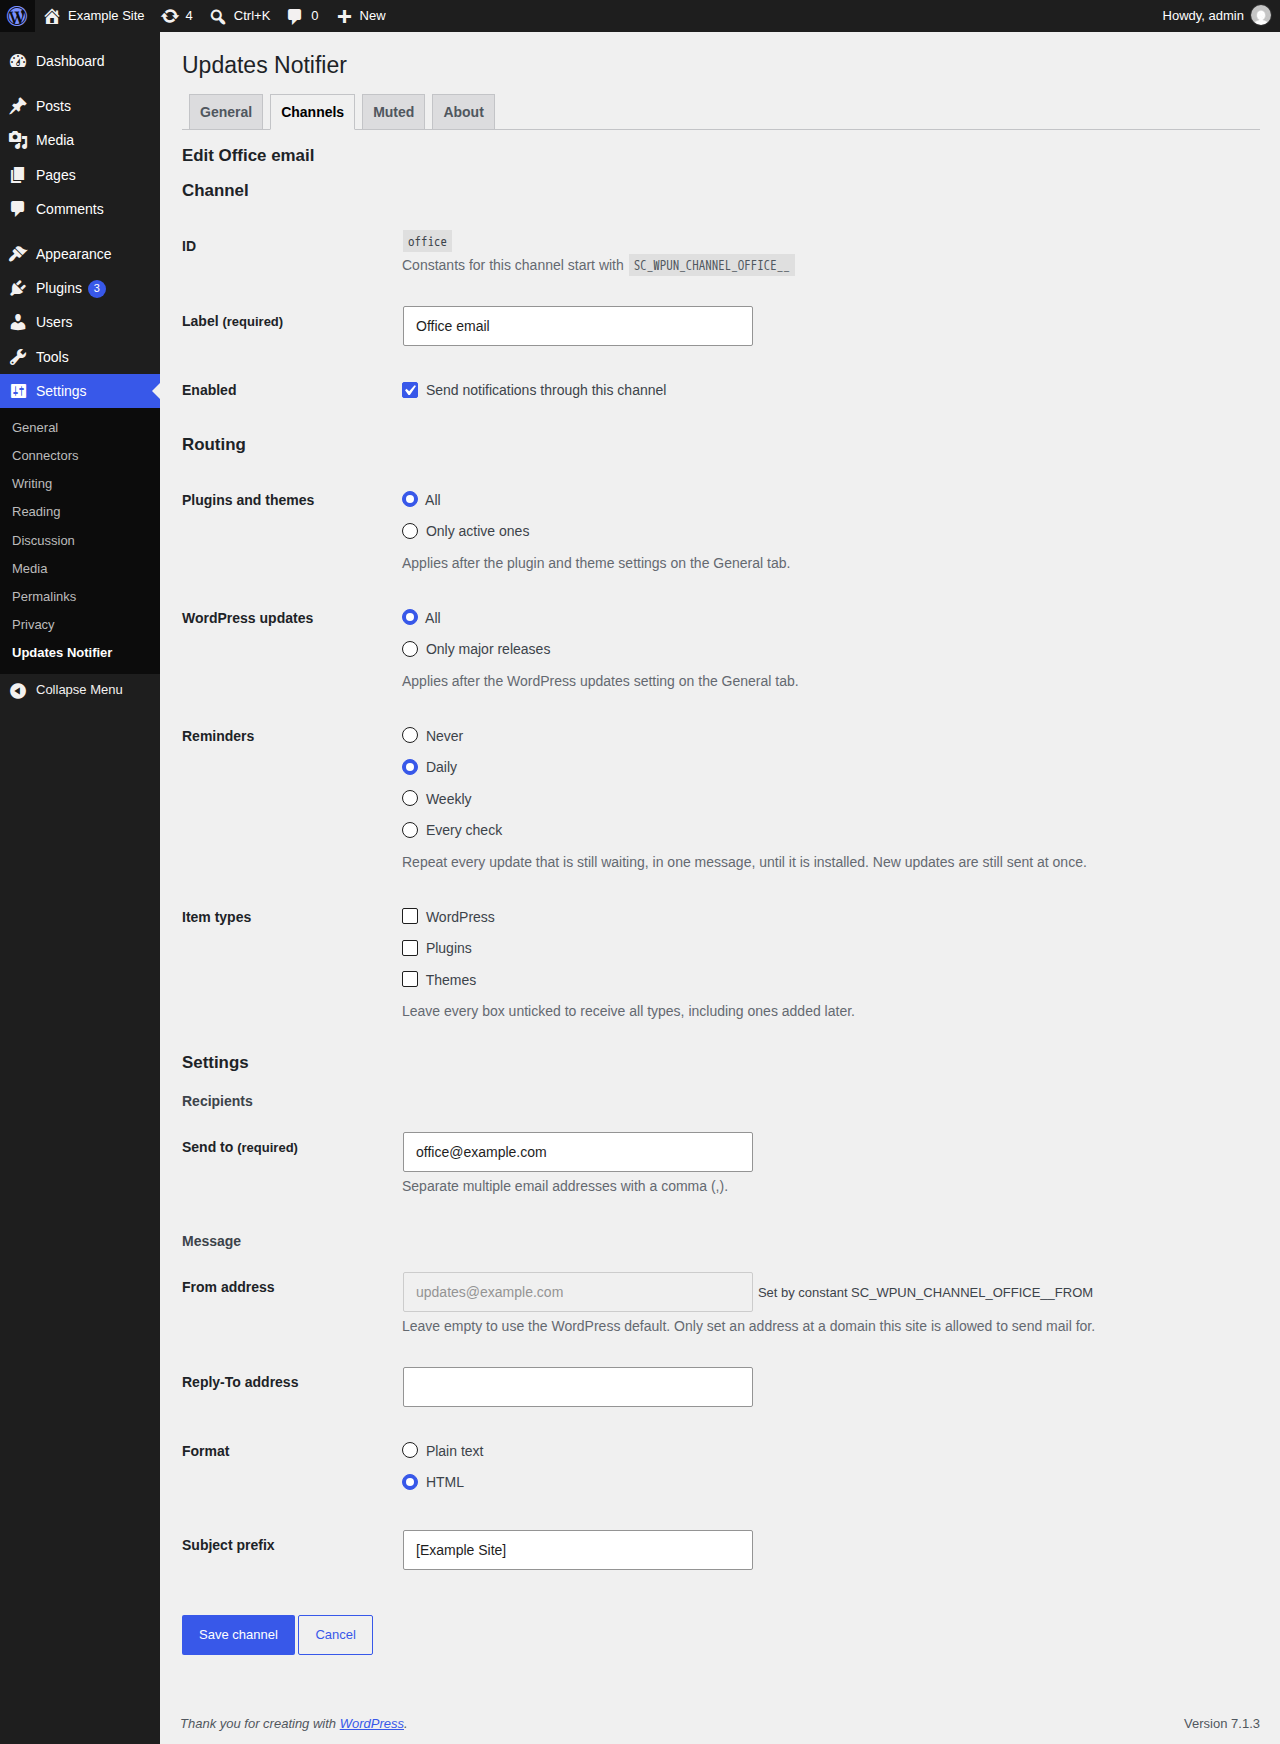
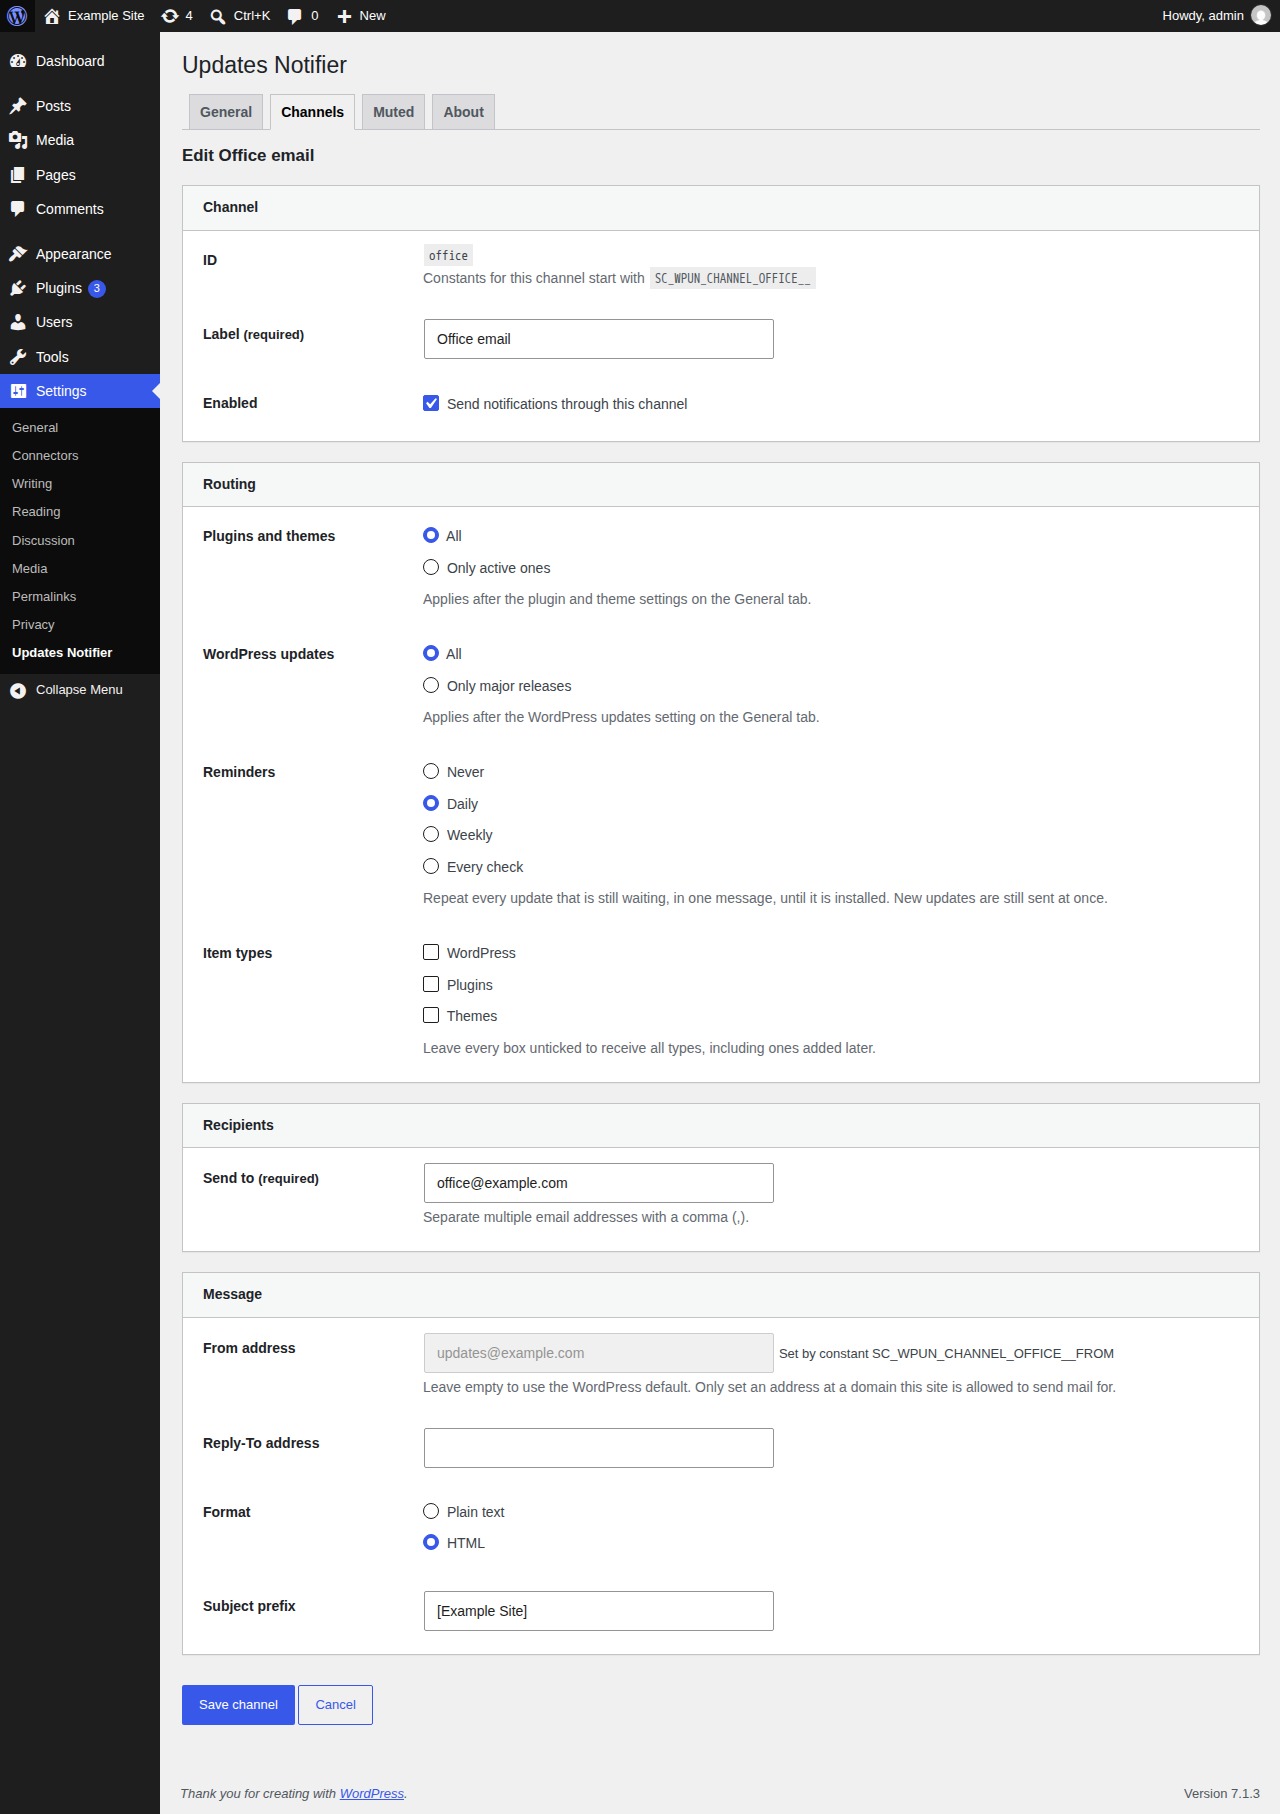
feat(channels): draw the channel form sections as panels
Core gives a fieldset no visible frame, so the field groups barely
stood out from the rest of the form. Channel, Routing, Settings and
each group are now fieldsets with their h3 heading in the legend,
styled as postbox-like panels with a title bar; a collapsed group's
summary is the bar. Groups sit beside Settings at the same level, and
Settings is left out when every field has a group. Screenshot 3 is
regenerated.

Refs #347

diff --git a/assets/css/admin.css b/assets/css/admin.css
@@ -64,28 +64,93 @@
 	}
 }
 
-/* Field groups of the channel form: a fieldset, or a details element when collapsed. */
-.sc-wpun-field-group {
-	margin: 1.5em 0 0;
-	padding: 0;
-	border: 0;
+/*
+ * Sections of the channel form: Channel, Routing, Settings and each field group. Core gives a fieldset no visible frame,
+ * so each is a panel like a postbox: a white box with a grey title bar. The legend (or the summary of a collapsed
+ * group) is floated so it sits inside the box as that bar instead of on its border.
+ */
+.sc-wpun-form-section,
+.sc-wpun-field-group,
+.sc-wpun-field-group-details {
+	box-sizing: border-box;
+	min-width: 0;
+	margin: 20px 0 0;
+	padding: 0 20px 8px;
+	border: 1px solid #c3c4c7;
+	background: #fff;
+	box-shadow: 0 1px 1px rgba(0, 0, 0, 0.04);
 }
 
-.sc-wpun-field-group > legend {
-	padding: 0;
+.sc-wpun-form-section > legend,
+.sc-wpun-field-group > legend:not(.screen-reader-text),
+.sc-wpun-field-group-details > summary {
+	float: left;
+	box-sizing: border-box;
+	width: calc(100% + 40px);
+	margin: 0 -20px;
+	padding: 12px 20px;
+	border-bottom: 1px solid #c3c4c7;
+	background: #f6f7f7;
+}
+
+.sc-wpun-form-section > legend h3,
+.sc-wpun-field-group > legend h3,
+.sc-wpun-field-group-details > summary {
+	margin: 0;
 	font-size: 14px;
 	font-weight: 600;
+	line-height: 1.4;
 }
 
-.sc-wpun-field-group-details {
-	margin: 1.5em 0 0;
+/* What follows the bar starts below it. */
+.sc-wpun-form-section > legend + *,
+.sc-wpun-field-group > legend + * {
+	clear: both;
 }
 
+.sc-wpun-field-group > legend + .description {
+	padding-top: 12px;
+}
+
+/* A collapsed group: the summary is the bar, with core's disclosure triangle, and the fieldset inside has no frame. */
 .sc-wpun-field-group-details > summary {
+	float: none;
+	display: list-item;
 	cursor: pointer;
-	font-weight: 600;
+}
+
+.sc-wpun-field-group-details:not([open]) {
+	padding-bottom: 0;
+}
+
+.sc-wpun-field-group-details:not([open]) > summary {
+	border-bottom: 0;
 }
 
 .sc-wpun-field-group-details > .sc-wpun-field-group {
-	margin-top: 0;
+	margin: 0;
+	padding: 0;
+	border: 0;
+	box-shadow: none;
+}
+
+.sc-wpun-field-group-details > summary:focus-visible {
+	outline: 2px solid #2271b1;
+	outline-offset: -2px;
+}
+
+@media screen and (max-width: 782px) {
+	.sc-wpun-form-section,
+	.sc-wpun-field-group,
+	.sc-wpun-field-group-details {
+		padding: 0 12px 8px;
+	}
+
+	.sc-wpun-form-section > legend,
+	.sc-wpun-field-group > legend:not(.screen-reader-text),
+	.sc-wpun-field-group-details > summary {
+		width: calc(100% + 24px);
+		margin: 0 -12px;
+		padding: 12px;
+	}
 }

diff --git a/tests/wp/test-field-groups.php b/tests/wp/test-field-groups.php
@@ -230,12 +230,12 @@ class Test_Field_Groups extends WPUN_Test_Case {
 		$this->register( $this->grouped_fields(), $this->groups() );
 		$xpath = $this->form();
 
-		$first = $xpath->query( '//h3[normalize-space()="Settings"]/following-sibling::*[1]' )->item( 0 );
+		$first = $xpath->query( '//fieldset[legend/h3[normalize-space()="Settings"]]/legend/following-sibling::*[1]' )->item( 0 );
 		$this->assertSame( 'table', $first->nodeName );
 		$this->assertSame( 'presentation', $first->getAttribute( 'role' ) );
 		$this->assertSame(
 			array( 'settings[one]', 'settings[two]', 'settings[three]' ),
-			$this->names( $xpath, '//h3[normalize-space()="Settings"]/following-sibling::table[1]//input' )
+			$this->names( $xpath, '//fieldset[legend/h3[normalize-space()="Settings"]]/table//input' )
 		);
 
 		$sets = $xpath->query( '//fieldset[@class="sc-wpun-field-group"]' );
@@ -247,7 +247,36 @@ class Test_Field_Groups extends WPUN_Test_Case {
 		$this->assertSame( array( 'settings[a1]', 'settings[a2]' ), $this->names( $xpath, '(//fieldset[@class="sc-wpun-field-group"])[1]/table//input' ) );
 		$this->assertSame( array( 'settings[b1]' ), $this->names( $xpath, '(//fieldset[@class="sc-wpun-field-group"])[2]/table//input' ) );
 		$this->assertSame( 0, $xpath->query( '//tbody//fieldset[contains(@class,"sc-wpun-field-group")]' )->length, 'A fieldset is not inside a table.' );
-		$this->assertSame( 0, $xpath->query( '//fieldset[@class="sc-wpun-field-group"]/table/following::table[count(ancestor::fieldset) = 0][.//input[@name="settings[one]"]]' )->length );
+		$this->assertSame( 1, $xpath->query( '(//fieldset[@class="sc-wpun-field-group"])[1]/preceding::fieldset[legend/h3[normalize-space()="Settings"]]' )->length, 'The ungrouped fields come first.' );
+		$this->assertSame( 1, $xpath->query( '//fieldset[@class="sc-wpun-field-group"]/legend/h3' )->length, 'An open group is a section with a heading; the collapsed one has a summary.' );
+	}
+
+	/**
+	 * Every section of the form is a fieldset whose legend holds its heading, and the groups follow Settings at the same level.
+	 */
+	public function test_every_section_is_a_fieldset_with_a_heading() {
+		$this->register( $this->grouped_fields(), $this->groups() );
+		$xpath = $this->form();
+
+		$headings = array();
+		foreach ( $xpath->query( '//form[contains(@class,"sc-wpun-channel-form")]//h3' ) as $node ) {
+			$this->assertSame( 'legend', $node->parentNode->nodeName, $node->textContent );
+			$this->assertSame( 'fieldset', $node->parentNode->parentNode->nodeName, $node->textContent );
+			$headings[] = trim( $node->textContent );
+		}
+		$this->assertSame( array( 'Channel', 'Routing', 'Settings', 'Alpha group' ), $headings, 'The collapsed group has a summary, not a heading.' );
+		$this->assertSame( 3, $xpath->query( '//fieldset[@class="sc-wpun-form-section"]' )->length );
+		$this->assertSame( 0, $xpath->query( '//form//fieldset[contains(@class,"sc-wpun-form-section") or contains(@class,"sc-wpun-field-group")]/ancestor::fieldset[contains(@class,"sc-wpun-form-section")]' )->length, 'Sections are not nested.' );
+	}
+
+	/**
+	 * A form whose fields are all grouped has no Settings section.
+	 */
+	public function test_no_settings_section_when_every_field_is_grouped() {
+		$xpath = $this->form( 'email' );
+
+		$this->assertSame( 0, $xpath->query( '//h3[normalize-space()="Settings"]' )->length );
+		$this->assertSame( array( 'Channel', 'Routing', 'Recipients', 'Message' ), array_map( static fn( $h ) => trim( $h->textContent ), iterator_to_array( $xpath->query( '//form//legend/h3' ) ) ) );
 	}
 
 	/**
@@ -362,7 +391,7 @@ class Test_Field_Groups extends WPUN_Test_Case {
 
 		$this->assertSame(
 			array( 'settings[x]', 'settings[y]', 'settings[z]' ),
-			$this->names( $xpath, '//h3[normalize-space()="Settings"]/following-sibling::table[1]//input' )
+			$this->names( $xpath, '//fieldset[legend/h3[normalize-space()="Settings"]]/table//input' )
 		);
 		$this->assertSame( 0, $xpath->query( '//fieldset[@class="sc-wpun-field-group"]' )->length );
 		$this->assertSame( 2, $count, 'One for "nowhere" and one for the list.' );
@@ -450,6 +479,7 @@ class Test_Field_Groups extends WPUN_Test_Case {
 		sc_wpun()->channels()->unregister( 'fixture_custom' );
 
 		$this->assertSame( 0, $xpath->query( '//fieldset[@class="sc-wpun-field-group"]' )->length );
+		$this->assertSame( 1, $xpath->query( '//fieldset[@class="sc-wpun-form-section"][legend/h3[normalize-space()="Settings"]]/div[@class="sc-wpun-custom-settings"]' )->length, 'Custom markup sits in the Settings section.' );
 	}
 
 	// Conditional fields: the note.

diff --git a/includes/admin/class-channel-form.php b/includes/admin/class-channel-form.php
@@ -627,7 +627,8 @@ class Channel_Form {
 		$id       = $instance->get_id();
 		$external = $is_new ? null : $this->store->external_source( $id, 'enabled' );
 		?>
-		<h3><?php esc_html_e( 'Channel', 'wp-updates-notifier' ); ?></h3>
+		<fieldset class="sc-wpun-form-section">
+		<legend><h3><?php esc_html_e( 'Channel', 'wp-updates-notifier' ); ?></h3></legend>
 		<table class="form-table" role="presentation">
 			<tbody>
 				<?php
@@ -661,6 +662,7 @@ class Channel_Form {
 				?>
 			</tbody>
 		</table>
+		</fieldset>
 		<?php
 	}
 
@@ -675,7 +677,8 @@ class Channel_Form {
 	private function render_routing_section( array $routing, array $errors ): void {
 		$notes = $this->global_notes();
 		?>
-		<h3><?php esc_html_e( 'Routing', 'wp-updates-notifier' ); ?></h3>
+		<fieldset class="sc-wpun-form-section">
+		<legend><h3><?php esc_html_e( 'Routing', 'wp-updates-notifier' ); ?></h3></legend>
 		<table class="form-table" role="presentation">
 			<tbody>
 				<?php
@@ -694,6 +697,7 @@ class Channel_Form {
 				?>
 			</tbody>
 		</table>
+		</fieldset>
 		<?php
 	}
 
@@ -746,14 +750,14 @@ class Channel_Form {
 	 * @return void
 	 */
 	private function render_settings_section( ?string $custom, Channel_Instance $form_inst, array $fields, array $groups, array $settings, bool $is_new, array $errors ): void {
-		?>
-		<h3><?php esc_html_e( 'Settings', 'wp-updates-notifier' ); ?></h3>
-		<?php
 		if ( is_string( $custom ) ) {
 			?>
+			<fieldset class="sc-wpun-form-section">
+			<legend><h3><?php esc_html_e( 'Settings', 'wp-updates-notifier' ); ?></h3></legend>
 			<div class="sc-wpun-custom-settings">
 				<?php echo $custom; // phpcs:ignore WordPress.Security.EscapeOutput.OutputNotEscaped -- Markup of the channel module. ?>
 			</div>
+			</fieldset>
 			<?php
 			return;
 		}
@@ -787,8 +791,12 @@ class Channel_Form {
 				. $this->control( $schema, 'settings[' . $name . ']', $id, $value, $errors[ 'settings.' . $name ] ?? '', $external, $applies ) . '</td></tr>';
 		}
 
-		// Fields without a group first, as before; then each group that has fields, in the order declared.
-		$this->settings_table( $buckets[''] ?? array() );
+		// Fields without a group first, under "Settings"; then each group that has fields, in the order declared, as a section of its own.
+		if ( array() !== ( $buckets[''] ?? array() ) ) {
+			$this->put( '<fieldset class="sc-wpun-form-section"><legend><h3>' . esc_html__( 'Settings', 'wp-updates-notifier' ) . '</h3></legend>' );
+			$this->settings_table( $buckets[''] );
+			$this->put( '</fieldset>' );
+		}
 		foreach ( $groups as $group_id => $group ) {
 			$rows = $buckets[ (string) $group_id ] ?? array();
 			if ( array() === $rows ) {
@@ -809,7 +817,7 @@ class Channel_Form {
 				$this->put( '<details class="sc-wpun-field-group-details"' . ( $open ? ' open' : '' ) . '><summary>' . esc_html( $label ) . '</summary>' );
 			}
 			$this->put( '<fieldset class="sc-wpun-field-group"' . ( '' !== $text ? ' aria-describedby="' . esc_attr( $dom_id . '-description' ) . '"' : '' ) . '>' );
-			$this->put( $collapsed ? '<legend class="screen-reader-text">' . esc_html( $label ) . '</legend>' : '<legend>' . esc_html( $label ) . '</legend>' );
+			$this->put( $collapsed ? '<legend class="screen-reader-text">' . esc_html( $label ) . '</legend>' : '<legend><h3>' . esc_html( $label ) . '</h3></legend>' );
 			if ( '' !== $text ) {
 				$this->put( '<p class="description" id="' . esc_attr( $dom_id . '-description' ) . '">' . esc_html( $text ) . '</p>' );
 			}
